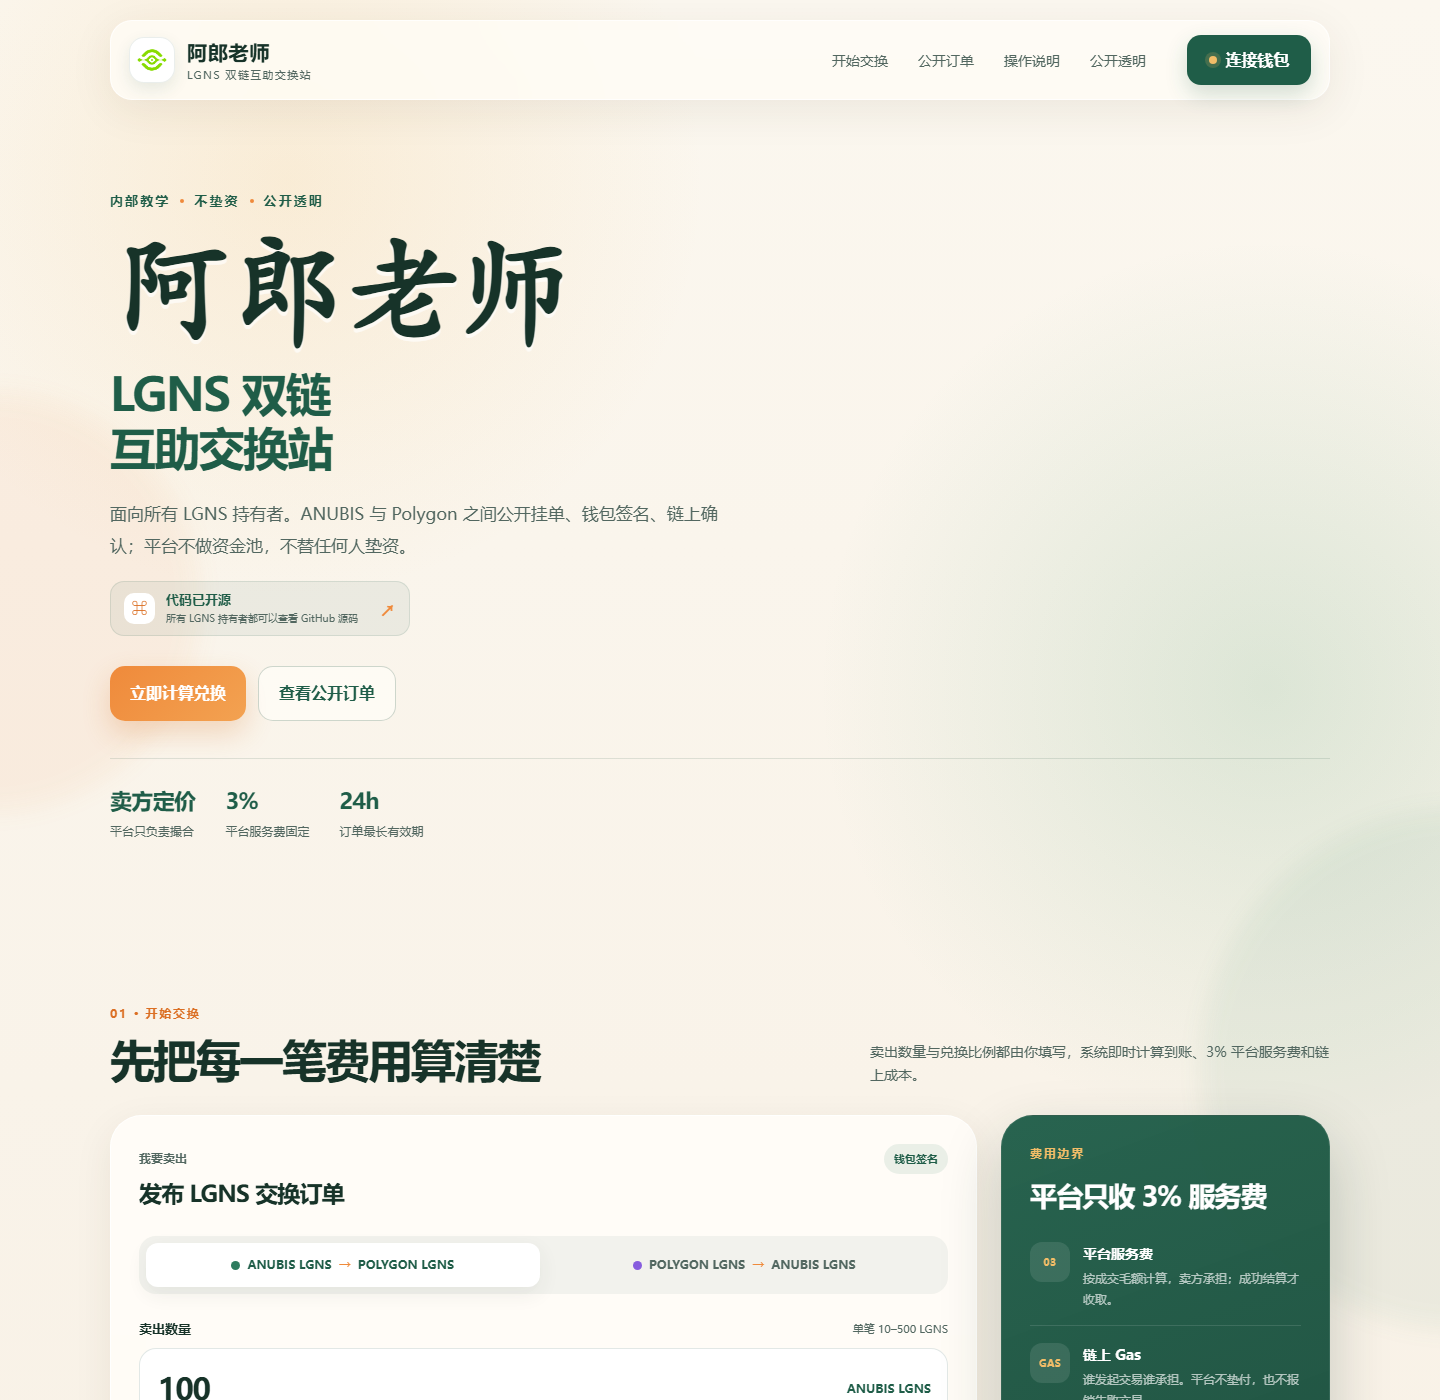
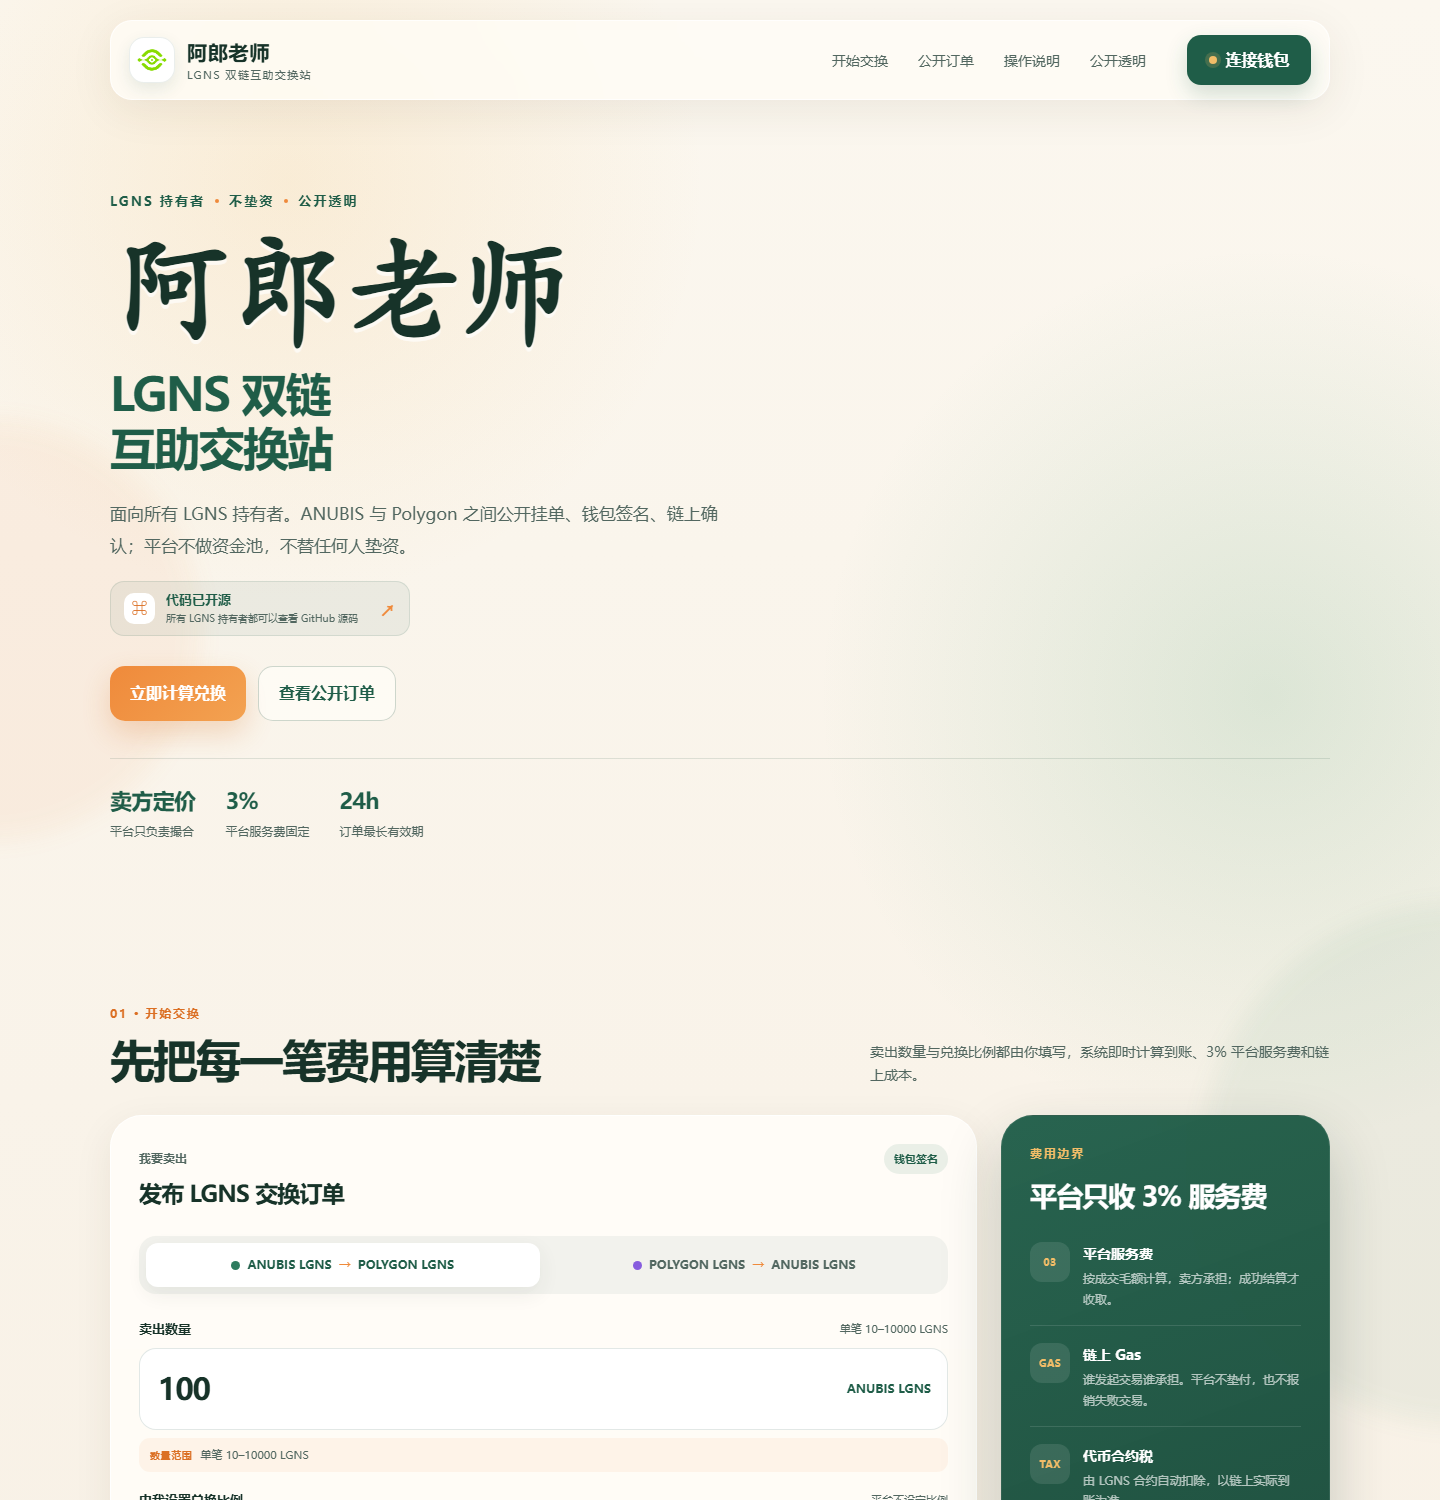
Add files via upload

diff --git a/static-api.js b/static-api.js
@@ -23,7 +23,7 @@ window.ALANG_STATIC_API = async function staticApi(path, options = {}) {
       feeBps: 300,
       feePercent: 3,
       minOrder: 10,
-      maxOrder: 500,
+      maxOrder: 10000,
       maxExpiryMinutes: 1440,
       minSellerRatio: 0.000001,
       maxSellerRatio: 10000,
@@ -45,7 +45,7 @@ window.ALANG_STATIC_API = async function staticApi(path, options = {}) {
     const sourceAmount = Number(body.sourceAmount);
     const ratio = Number(body.sellerRatio);
     if (!body.wallet || !body.signature) throw new Error('请先连接钱包并完成签名');
-    if (!Number.isFinite(sourceAmount) || sourceAmount < 10 || sourceAmount > 500) throw new Error('卖出数量需在 10–500 LGNS 之间');
+    if (!Number.isFinite(sourceAmount) || sourceAmount < 10 || sourceAmount > 10000) throw new Error('卖出数量需在 10–10000 LGNS 之间');
     if (!Number.isFinite(ratio) || ratio <= 0) throw new Error('请填写有效的卖出比例');
     const targetAmount = round6(sourceAmount * ratio);
     const feeAmount = round6(targetAmount * 0.03);

diff --git a/index.html b/index.html
@@ -94,12 +94,13 @@
           <div class="field-block">
             <div class="field-label-row">
               <label for="amountInput">卖出数量</label>
-              <span id="amountRange">单笔 10–500 LGNS</span>
+              <span id="amountRange">单笔 10–10000 LGNS</span>
             </div>
             <div class="amount-input-wrap">
-              <input id="amountInput" type="number" min="10" max="500" step="0.000001" inputmode="decimal" placeholder="输入数量" value="100">
+              <input id="amountInput" type="number" min="10" max="10000" step="0.000001" inputmode="decimal" placeholder="输入数量" value="100">
               <span id="sourceSymbol">ANUBIS LGNS</span>
             </div>
+            <div class="range-notice"><strong>数量范围</strong><span>单笔 10–10000 LGNS</span></div>
           </div>
 
           <div class="field-block ratio-field-block">

diff --git a/styles.css b/styles.css
@@ -354,3 +354,5 @@ img { max-width: 100%; }
 .public-demo-banner > span { flex: 0 0 auto; color: var(--orange-deep); font-weight: 900; font-size: 10px; letter-spacing: .1em; }
 .public-demo-banner p { margin: 0; }
 @media (max-width: 760px) { .public-demo-banner { width: calc(100% - 28px); align-items: flex-start; flex-direction: column; gap: 3px; } }
+.range-notice { display: flex; align-items: center; gap: 8px; margin-top: 8px; padding: 8px 11px; border-radius: 11px; background: rgba(239,138,59,.08); color: var(--ink-soft); font-size: 11px; }
+.range-notice strong { color: var(--orange-deep); font-size: 10px; letter-spacing: .06em; }
